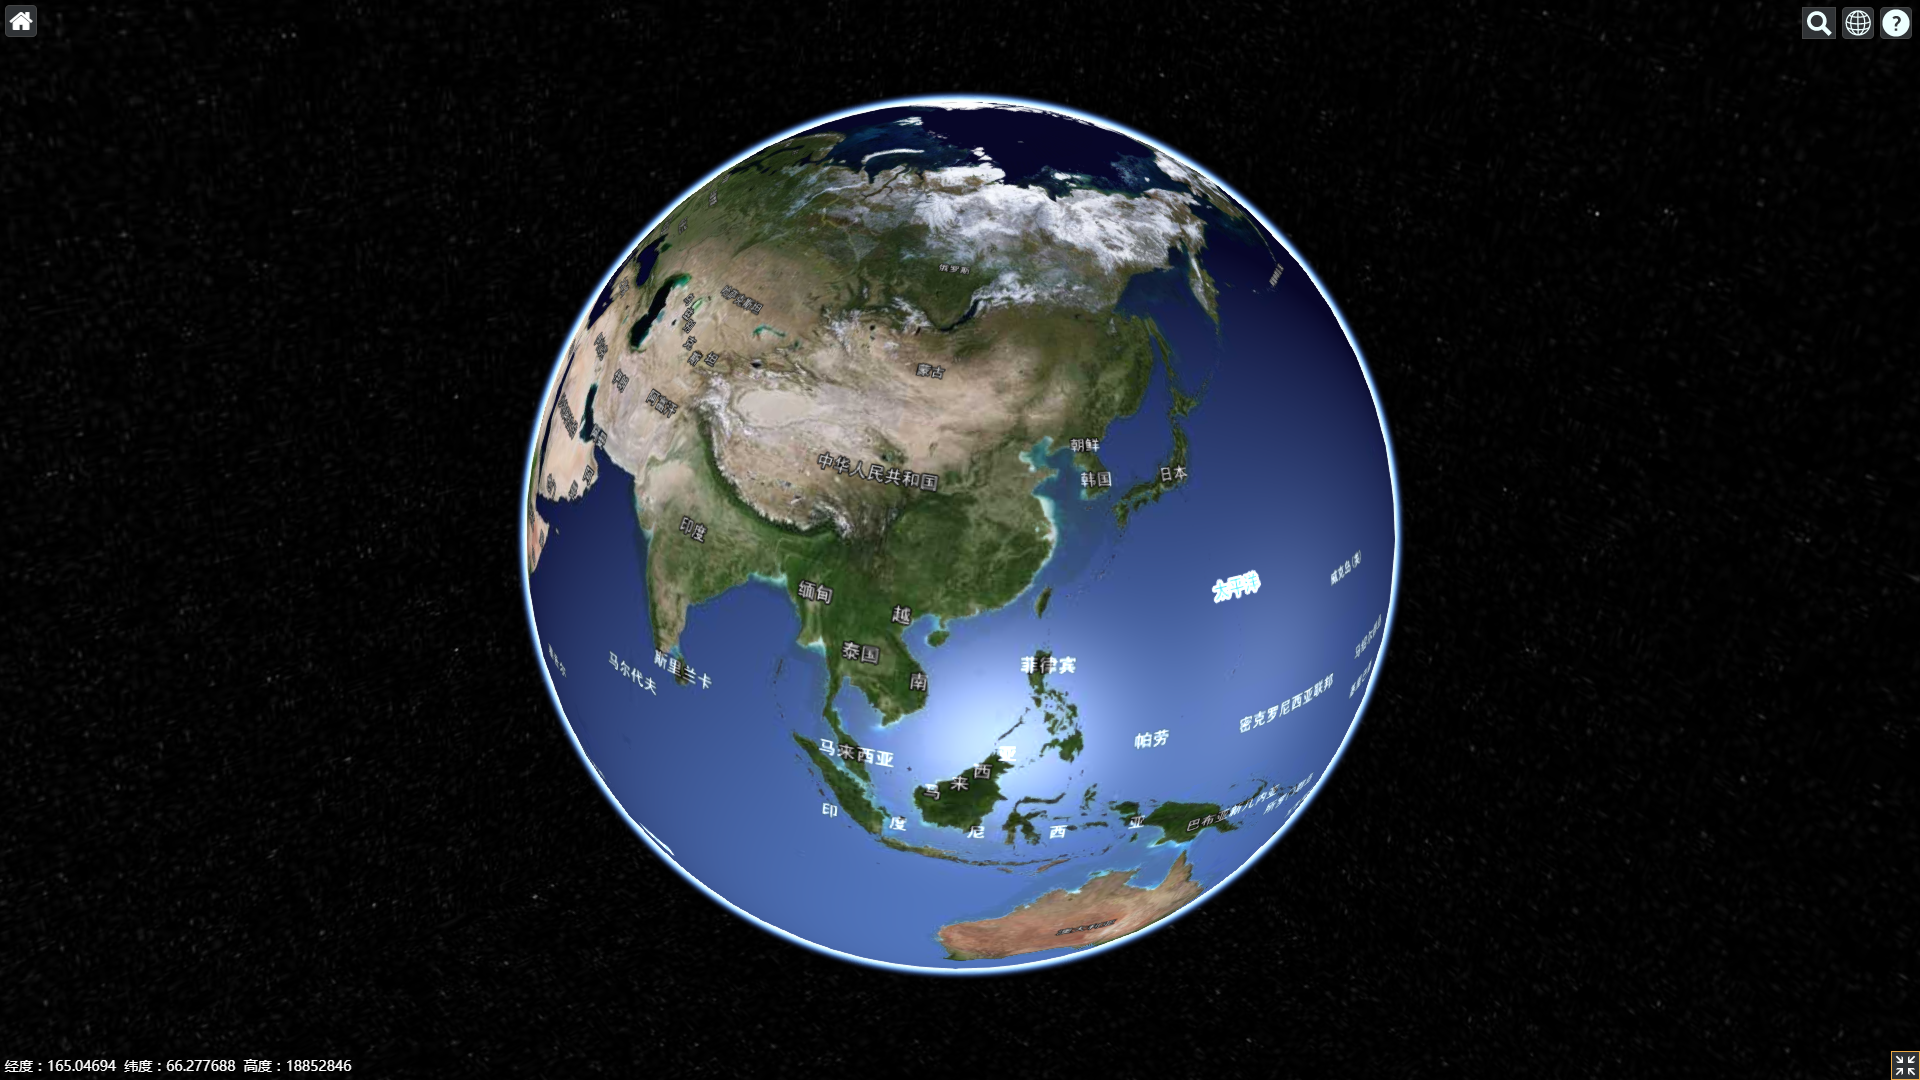
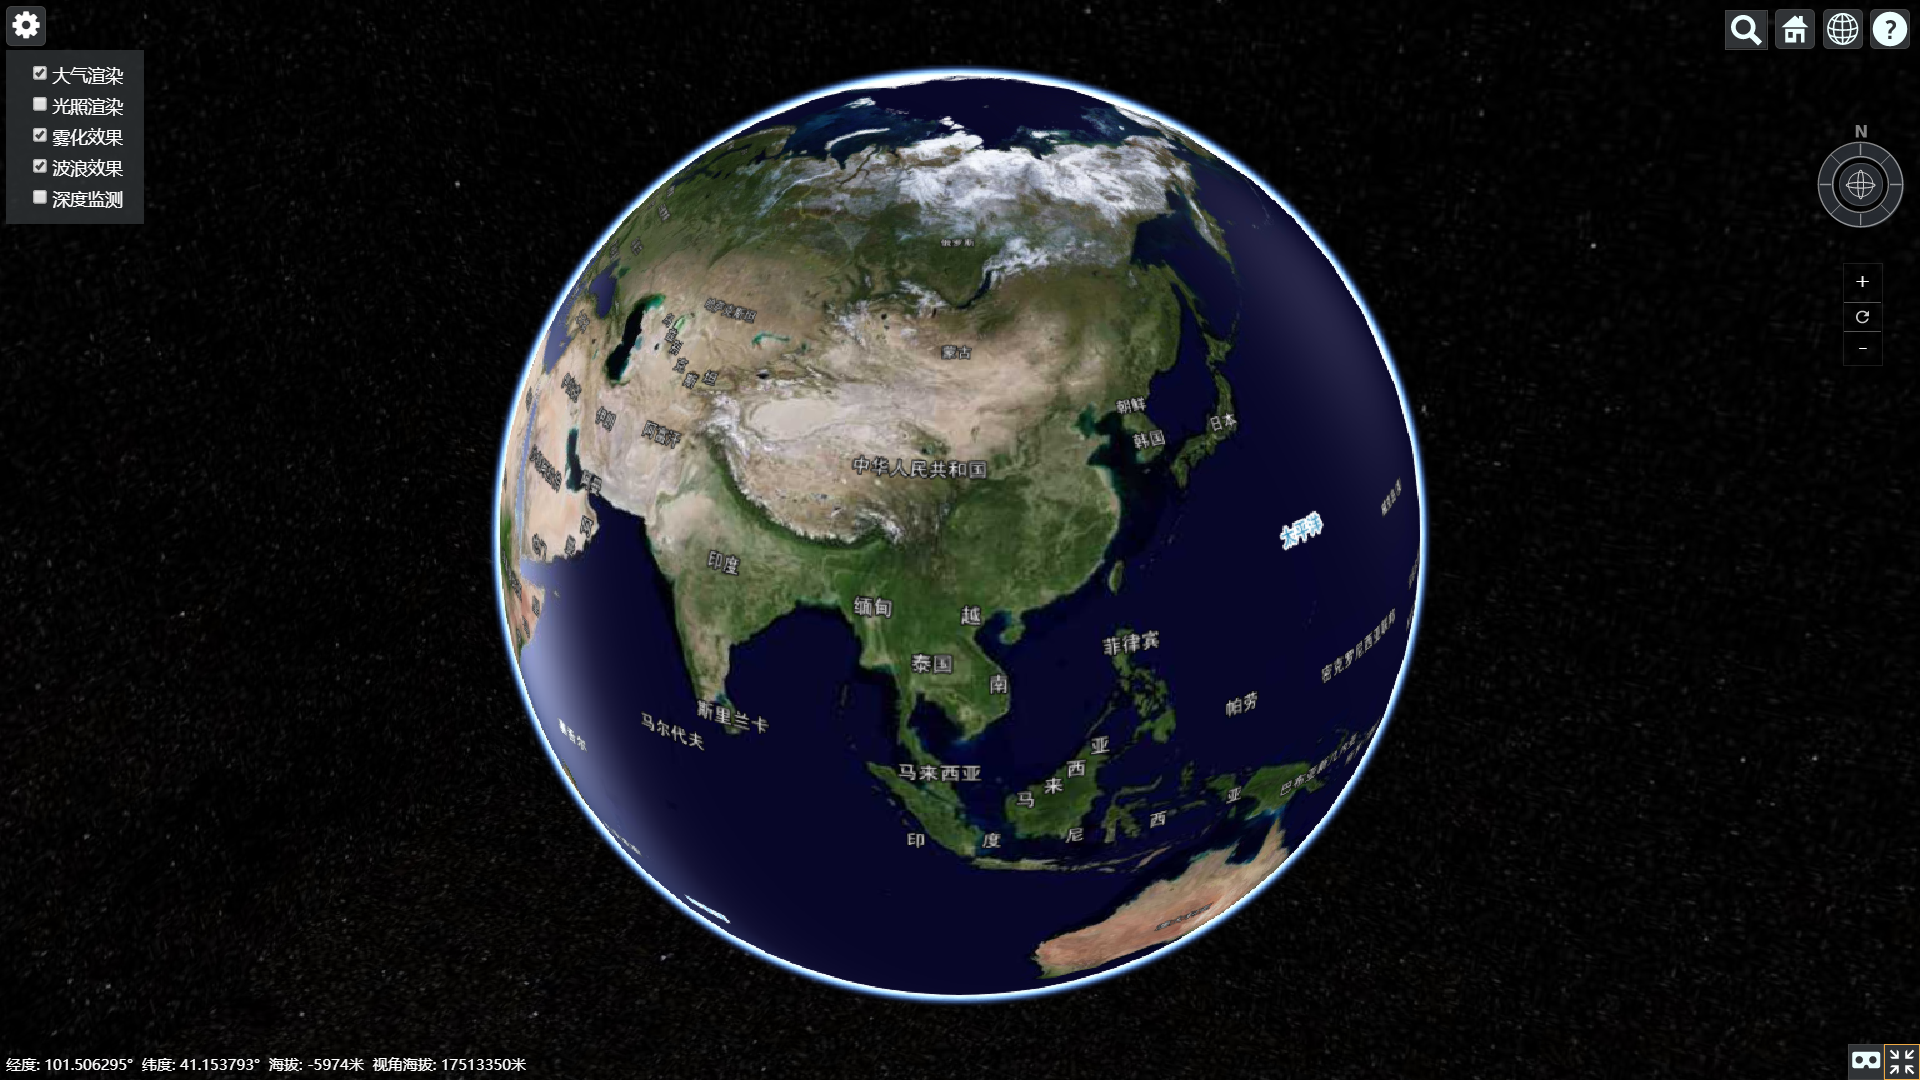
新增一些控制启用部件的输入属性

diff --git a/src/e-ngx-cesium.component.ts b/src/e-ngx-cesium.component.ts
@@ -35,11 +35,21 @@ export class ENgxCesiumComponent implements OnInit, OnDestroy {
 	@ViewChild('globeContainer') globeContainerRef: ElementRef;
 
 	@Input()
-	viewerOptions: ViewerOptions;
+	viewerOptions: ViewerOptions = {};
 	@Input()
 	proxy: string;
 	@Input()
 	rectangle: Rectangle;
+	@Input()
+	enablePosition: boolean = true;
+	@Input()
+	enableSetting: boolean = true;
+	@Input()
+	enableCompass: boolean = true;
+	@Input()
+	enableZoomControls: boolean = true;
+	@Input()
+	enableDistanceLegend: boolean = true;
 
 	@Output()
 	viewerReady: EventEmitter<any> = new EventEmitter<any>(false);
@@ -57,7 +67,13 @@ export class ENgxCesiumComponent implements OnInit, OnDestroy {
 		fullscreenElement: this.globeContainer // 这里设置viewer所在元素为全屏的元素
 	};
 	private defaultRectangle: Rectangle = Rectangle.fromDegrees(73.666667, 3.866667, 135.041667, 53.55); // 默认中国
-	mousePosition: CurrentPosition; // 鼠标位置
+	mousePosition: CurrentPosition = null; // 鼠标位置
+	isShowSettingPanel: boolean = false; // 显示设置面板
+	showSkyAtmosphere: boolean = true;
+	enableLighting: boolean = false;
+	depthTestAgainstTerrain: boolean = false;
+	showWaterEffect: boolean = true;
+	enableFog: boolean = true;
 
 	constructor() {
 	}
@@ -67,6 +83,11 @@ export class ENgxCesiumComponent implements OnInit, OnDestroy {
 		this.defaultProxy = this.proxy && new DefaultProxy(this.proxy);
 		Camera.DEFAULT_VIEW_RECTANGLE = this.rectangle || this.defaultRectangle;
 		this.initViewer();
+	}
+
+	ngOnDestroy() {
+		this.viewer['cesiumNavigation'].destroy();
+		this.viewer.destroy();
 	}
 
 	/**
@@ -105,13 +126,21 @@ export class ENgxCesiumComponent implements OnInit, OnDestroy {
 		this.viewer.cesiumWidget.creditContainer['style'].display = 'none'; // 隐藏默认的版权信息
 
 		// 导航扩展
-		this.viewer.extend(Cesium['viewerCesiumNavigationMixin'], {});
+		this.viewer.extend(Cesium['viewerCesiumNavigationMixin'], {
+			enableCompass: this.enableCompass,
+			enableZoomControls: this.enableZoomControls,
+			enableDistanceLegend: this.enableDistanceLegend,
+			enableCompassOuterRing: this.enableCompass
+		});
 
 		// 添加天地图影像标注
 		if (addImageryLayer) {
 			this.viewer.imageryLayers.addImageryProvider(addImageryLayer);
 		}
-		this.setGetPositionAction();
+
+		if (this.enablePosition) {
+			this.setGetPositionAction();
+		}
 
 		// 分发初始化完成事件
 		this.viewerReady.emit({
@@ -176,8 +205,60 @@ export class ENgxCesiumComponent implements OnInit, OnDestroy {
 		}
 	}
 
-	ngOnDestroy() {
-		this.viewer['cesiumNavigation'].destroy();
-		this.viewer.destroy();
+	/**
+	 * 显示设置面板
+	 */
+	showSettingPanel() {
+		this.isShowSettingPanel = !this.isShowSettingPanel;
+	}
+
+	/**
+	 * 大气渲染效果切换
+	 */
+	doShowSkyAtmosphere() {
+		const id: number = setTimeout(() => {
+			clearTimeout(id);
+			this.scene.skyAtmosphere.show = this.showSkyAtmosphere;
+		});
+	}
+
+	/**
+	 * 光照渲染效果切换
+	 */
+	doEnableLighting() {
+		const id: number = setTimeout(() => {
+			clearTimeout(id);
+			this.globe.enableLighting = this.enableLighting;
+		});
+	}
+
+	/**
+	 * 雾化效果切换
+	 */
+	doEnableFog() {
+		const id: number = setTimeout(() => {
+			clearTimeout(id);
+			this.scene.fog.enabled = this.enableFog;
+		});
+	}
+
+	/**
+	 * 波浪效果切换
+	 */
+	doShowWaterEffect() {
+		const id: number = setTimeout(() => {
+			clearTimeout(id);
+			this.globe.showWaterEffect = this.showWaterEffect;
+		});
+	}
+
+	/**
+	 * 深度监测切换
+	 */
+	doDepthTestAgainstTerrain() {
+		const id: number = setTimeout(() => {
+			clearTimeout(id);
+			this.globe.depthTestAgainstTerrain = this.depthTestAgainstTerrain;
+		});
 	}
 }

diff --git a/src/e-ngx-cesium.component.html b/src/e-ngx-cesium.component.html
@@ -1,16 +1,33 @@
 <div class="e-ngx-cesium-fullview e-ngx-cesium">
 	<div class="e-ngx-cesium-fullview e-ngx-cesium-globe" #globeContainer></div>
-	<div *ngIf="mousePosition" class="e-ngx-cesium-position">
+	<div *ngIf="enablePosition && mousePosition" class="e-ngx-cesium-position">
 		{{'经度: ' + mousePosition.long + '°'}}&nbsp;
 		{{'纬度: ' + mousePosition.lat + '°'}}&nbsp;
 		{{'海拔: ' + mousePosition.elevation + '米'}}&nbsp;
 		{{'视角海拔: ' + mousePosition.height + '米'}}&nbsp;
 	</div>
-	<!--<div class="e-ngx-cesium-toolbar">-->
-		<!--<div class="e-ngx-cesium-toolbar-home">-->
-			<!--<button class="e-ngx-cesium-button" (click)="homeCamera()">-->
-				<!--<span class="fa fa-home"></span>-->
-			<!--</button>-->
-		<!--</div>-->
-	<!--</div>-->
+	<div class="e-ngx-cesium-toolbar">
+		<div *ngIf="enableSetting" class="e-ngx-cesium-toolbar-setting" title="效果设置">
+			<button class="e-ngx-cesium-button" (click)="showSettingPanel()">
+				<span class="fa fa-cog"></span>
+			</button>
+			<div class="setting-panel" [ngClass]="{'setting-panel-show': isShowSettingPanel}">
+				<div>
+					<input type="checkbox" name="showSkyAtmosphere" [(ngModel)]="showSkyAtmosphere" (click)="doShowSkyAtmosphere()">大气渲染
+				</div>
+				<div>
+					<input type="checkbox" name="enableLighting" [(ngModel)]="enableLighting" (click)="doEnableLighting()">光照渲染
+				</div>
+				<div>
+					<input type="checkbox" name="enableFog" [(ngModel)]="enableFog" (click)="doEnableFog()">雾化效果
+				</div>
+				<div>
+					<input type="checkbox" name="showWaterEffect" [(ngModel)]="showWaterEffect" (click)="doShowWaterEffect()">波浪效果
+				</div>
+				<div>
+					<input type="checkbox" name="depthTestAgainstTerrain" [(ngModel)]="depthTestAgainstTerrain" (click)="doDepthTestAgainstTerrain()">深度监测
+				</div>
+			</div>
+		</div>
+	</div>
 </div>

diff --git a/example/app/app.component.ts b/example/app/app.component.ts
@@ -14,53 +14,16 @@ export class AppComponent {
 	viewer: Viewer;
 	scene: Scene;
 	globe: Globe;
-	showSkyAtmosphere: boolean = true;
-	enableLighting: boolean = false;
-	depthTestAgainstTerrain: boolean = false;
-	showWaterEffect: boolean = true;
-	enableFog: boolean = true;
 
 	constructor() {
+		this.viewerOptions = {
+			vrButton: true // 启用VR模式
+		};
 	}
 
 	onViewerReady(evt: any) {
 		this.viewer = evt.viewer;
 		this.scene = evt.scene;
 		this.globe = evt.globe;
-	}
-
-	doShowSkyAtmosphere() {
-		const id: number = setTimeout(() => {
-			clearTimeout(id);
-			this.scene.skyAtmosphere.show = this.showSkyAtmosphere;
-		});
-	}
-
-	doEnableLighting() {
-		const id: number = setTimeout(() => {
-			clearTimeout(id);
-			this.globe.enableLighting = this.enableLighting;
-		});
-	}
-
-	doEnableFog() {
-		const id: number = setTimeout(() => {
-			clearTimeout(id);
-			this.scene.fog.enabled = this.enableFog;
-		});
-	}
-
-	doShowWaterEffect() {
-		const id: number = setTimeout(() => {
-			clearTimeout(id);
-			this.globe.showWaterEffect = this.showWaterEffect;
-		});
-	}
-
-	doDepthTestAgainstTerrain() {
-		const id: number = setTimeout(() => {
-			clearTimeout(id);
-			this.globe.depthTestAgainstTerrain = this.depthTestAgainstTerrain;
-		});
 	}
 }

diff --git a/src/e-ngx-cesium.component.scss b/src/e-ngx-cesium.component.scss
@@ -11,10 +11,6 @@
     font-size: 14px;
     color: #FFFFFF;
 
-    .e-ngx-cesium-globe {
-
-    }
-
     .e-ngx-cesium-position {
         position: absolute;
         left: 5px;
@@ -22,7 +18,7 @@
 		font-size: 12px;
     }
 
-    /*.e-ngx-cesium-toolbar {
+    .e-ngx-cesium-toolbar {
         position: absolute;
         left: 5px;
         top: 5px;
@@ -30,6 +26,28 @@
         & > div {
             position: relative;
         }
+
+		.e-ngx-cesium-toolbar-setting {
+			.setting-panel {
+				width: 100px;
+				position: absolute;
+				text-align: center;
+				top: 35px;
+				left: -120px;
+				background: rgba(48, 51, 54, 0.8);
+				padding: 5px;
+				color: #FFFFFF;
+				transition: left 0.5s ease-out;
+
+				&.setting-panel-show {
+					left: 0;
+				}
+
+				div {
+					margin: 5px 5px;
+				}
+			}
+		}
 
         .e-ngx-cesium-button {
             box-sizing: border-box;
@@ -56,5 +74,5 @@
                 outline: none;
             }
         }
-    }*/
+    }
 }

diff --git a/example/app/app.component.html b/example/app/app.component.html
@@ -1,20 +1,3 @@
 <div class="app-main">
 	<e-ngx-cesium [viewerOptions]="viewerOptions" (viewerReady)="onViewerReady($event)"></e-ngx-cesium>
-	<div class="some-tools">
-		<div>
-			<input type="checkbox" name="showSkyAtmosphere" [(ngModel)]="showSkyAtmosphere" (click)="doShowSkyAtmosphere()">大气渲染
-		</div>
-		<div>
-			<input type="checkbox" name="enableLighting" [(ngModel)]="enableLighting" (click)="doEnableLighting()">光照渲染
-		</div>
-		<div>
-			<input type="checkbox" name="enableFog" [(ngModel)]="enableFog" (click)="doEnableFog()">雾化效果
-		</div>
-		<div>
-			<input type="checkbox" name="showWaterEffect" [(ngModel)]="showWaterEffect" (click)="doShowWaterEffect()">波浪效果
-		</div>
-		<div>
-			<input type="checkbox" name="depthTestAgainstTerrain" [(ngModel)]="depthTestAgainstTerrain" (click)="doDepthTestAgainstTerrain()">深度监测
-		</div>
-	</div>
 </div>

diff --git a/src/e-ngx-cesium.module.ts b/src/e-ngx-cesium.module.ts
@@ -1,10 +1,12 @@
 import { NgModule } from '@angular/core';
 import { CommonModule } from '@angular/common';
 import { ENgxCesiumComponent } from './e-ngx-cesium.component';
+import { FormsModule } from '@angular/forms';
 
 @NgModule({
 	imports: [
-		CommonModule
+		CommonModule,
+		FormsModule,
 	],
 	declarations: [ENgxCesiumComponent],
 	exports: [CommonModule, ENgxCesiumComponent]

diff --git a/example/app/app.component.scss b/example/app/app.component.scss
@@ -5,17 +5,4 @@
     margin: 0;
     padding: 0;
     overflow: hidden;
-
-    .some-tools {
-        position: absolute;
-        top: 10px;
-        left: 5px;
-        background: rgba(48, 51, 54, 0.8);
-        padding: 5px;
-        color: #FFFFFF;
-
-        div {
-            margin: 5px 5px;
-        }
-    }
 }

diff --git a/README.md b/README.md
@@ -94,7 +94,6 @@ e-ngx-cesium is a [cesium](https://cesiumjs.org/) component for Angular.
         timeline: false,
         animation: false,
         baseLayerPicker: false,
-        homeButton: false,
         fullscreenElement: this.globeContainer, // 这里设置viewer所在元素为全屏的元素
         imageryProvider: new Cesium.WebMapTileServiceImageryProvider({
             url: 'http://t0.tianditu.com/img_w/wmts?service=wmts&request=GetTile&version=1.0.0&LAYER=img&tileMatrixSet=w&TileMatrix={TileMatrix}&TileRow={TileRow}&TileCol={TileCol}&style=default&format=tiles',
@@ -113,15 +112,19 @@ e-ngx-cesium is a [cesium](https://cesiumjs.org/) component for Angular.
 
 - `proxy`（`string`） - 设置代理路径，可使用esri提供的[几个平台的代理文件](https://github.com/Esri/resource-proxy)
 
-- `rectangle`（`Cesium.Rectangle`） - 初始范围
+- `enablePosition`（`boolean?=true`） - 启用位置信息部件
+
+- `enableSetting`（`boolean?=true`） - 启用效果设置部件
+
+- `enableCompass`（`boolean?=true`） - 启用罗盘部件
+
+- `enableZoomControls`（`boolean?=true`） - 启用缩放部件
+
+- `enableDistanceLegend`（`boolean?=true`） - 启用比例尺部件
 
 ### Outputs
 
 - `viewerReady` - Cesium.Viewer创建完成后会触发该事件，参数$event为`{viewer: Cesium.Viewer, scene: Cesium.Scene, globe: Cesium.Globe, ellipsoid: Cesium.Ellipsoid}`
-
-### Instance Method
-
-- 暂无
 
 ## Develop
 

diff --git a/CHANGELOG.md b/CHANGELOG.md
@@ -1,3 +1,7 @@
+# 1.3.2（2017-12-09）
+
+- 新增一些控制启用部件的输入属性
+
 # 1.3.1（2017-12-07）
 
 - 导航插件汉化
